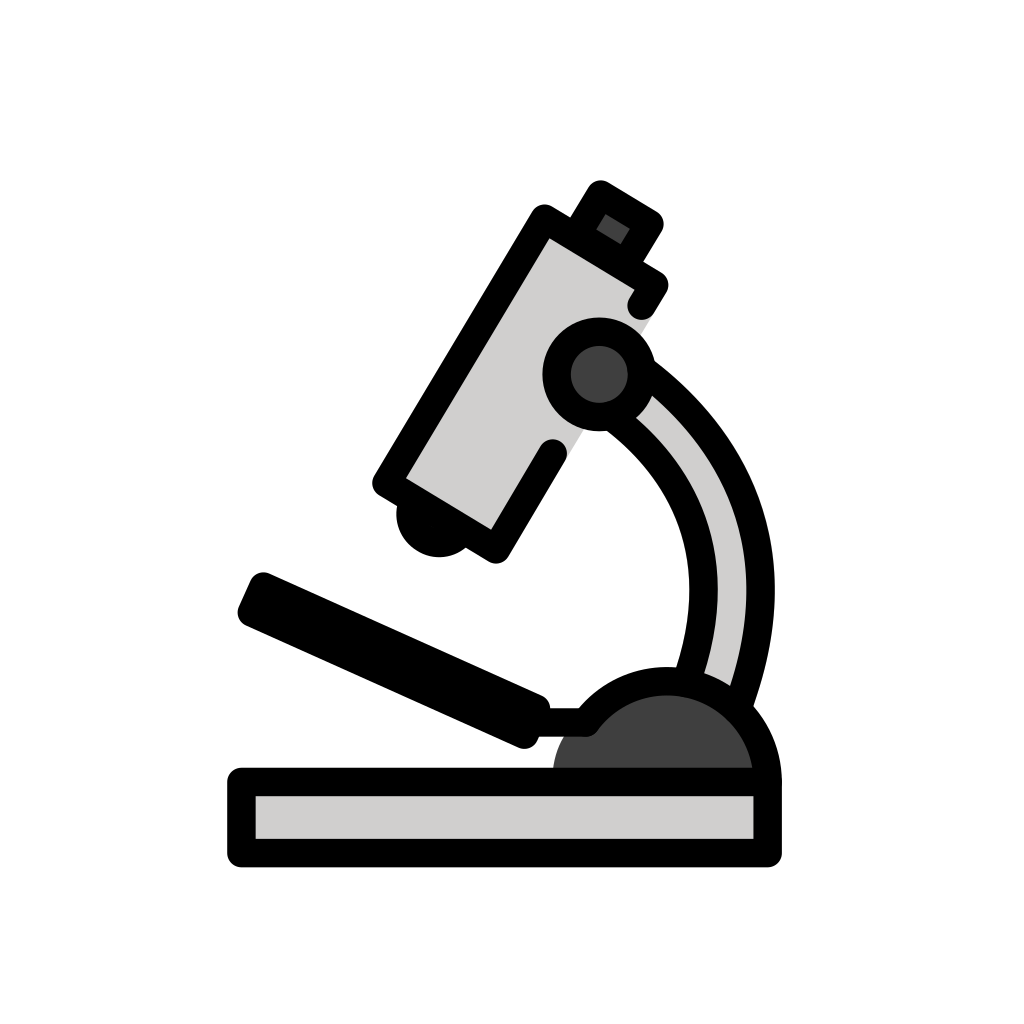
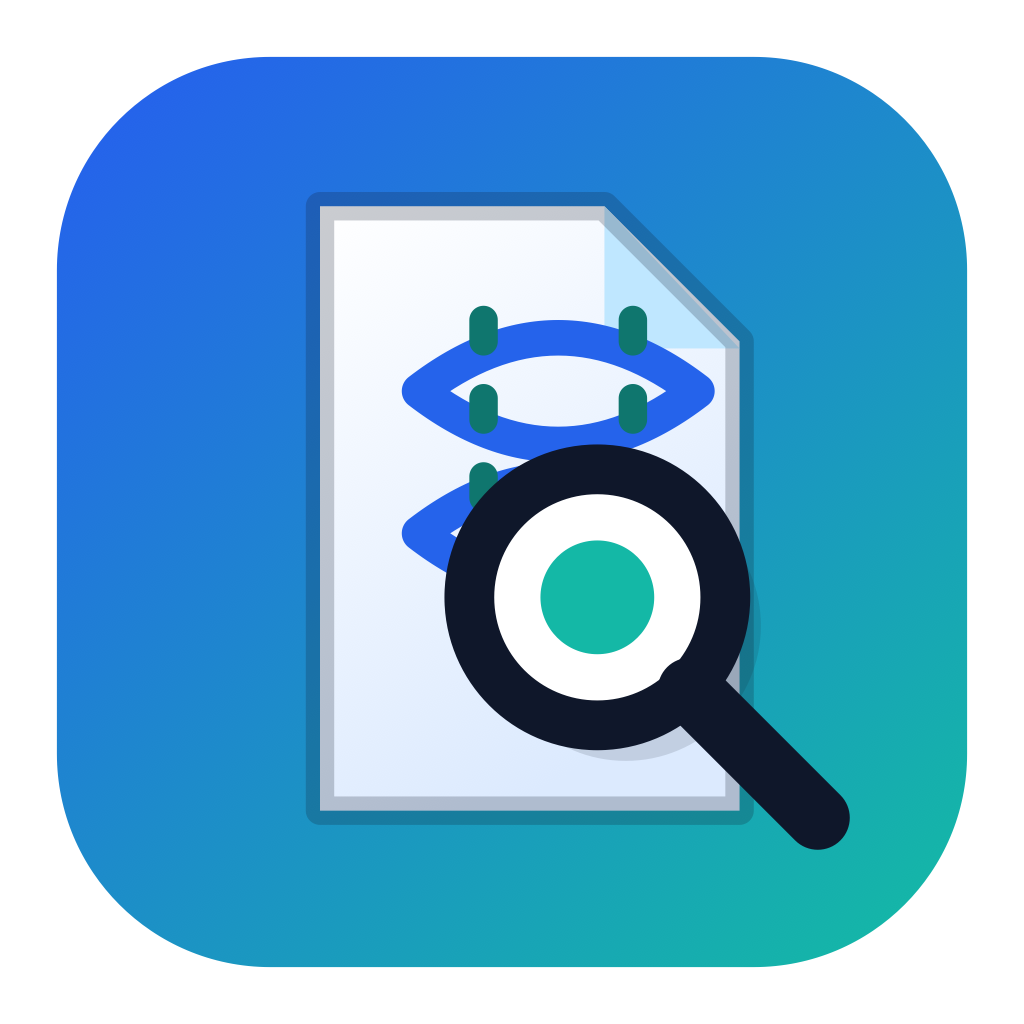
Standardize ResearchShop brand assets

diff --git a/app/scripts/generate-brand-assets.js b/app/scripts/generate-brand-assets.js
@@ -1,0 +1,205 @@
+const { execFileSync } = require('node:child_process')
+const { copyFileSync, mkdirSync, mkdtempSync, readFileSync, rmSync, writeFileSync } = require('node:fs')
+const { basename, join, resolve } = require('node:path')
+
+const repoRoot = resolve(__dirname, '../..')
+const resourcesDir = join(repoRoot, 'app/resources')
+const sourceSvg = join(resourcesDir, 'icon-source.svg')
+
+function run(command, args) {
+  execFileSync(command, args, { stdio: 'inherit' })
+}
+
+function renderSvg(input, size, output) {
+  const renderDir = mkdtempSync('/private/tmp/researchshop-render-')
+  try {
+    run('qlmanage', ['-t', '-s', String(size), '-o', renderDir, input])
+    copyFileSync(join(renderDir, `${basename(input)}.png`), output)
+  } finally {
+    rmSync(renderDir, { recursive: true, force: true })
+  }
+}
+
+function resizePng(input, width, height, output) {
+  run('sips', ['-z', String(height), String(width), input, '--out', output])
+}
+
+function renderIconPng(basePng, size, output) {
+  resizePng(basePng, size, size, output)
+}
+
+function generateDmgBackgrounds(workDir) {
+  const swiftPath = join(workDir, 'generate-dmg-background.swift')
+  const rawBackground = join(workDir, 'dmg-background-raw.png')
+  const rawBackground2x = join(workDir, '[email redacted]')
+  writeFileSync(swiftPath, `
+import AppKit
+
+let resourcesDir = CommandLine.arguments[1]
+let outputPath = CommandLine.arguments[2]
+let outputPath2x = CommandLine.arguments[3]
+let logicalWidth: CGFloat = 660
+let logicalHeight: CGFloat = 400
+
+func color(_ hex: Int, alpha: CGFloat = 1) -> NSColor {
+  let red = CGFloat((hex >> 16) & 0xff) / 255
+  let green = CGFloat((hex >> 8) & 0xff) / 255
+  let blue = CGFloat(hex & 0xff) / 255
+  return NSColor(calibratedRed: red, green: green, blue: blue, alpha: alpha)
+}
+
+func drawBackground(scale: CGFloat, output: String) throws {
+  let size = NSSize(width: logicalWidth * scale, height: logicalHeight * scale)
+  let image = NSImage(size: size)
+  image.lockFocus()
+  NSGraphicsContext.current?.imageInterpolation = .high
+
+  func rect(_ x: CGFloat, _ top: CGFloat, _ width: CGFloat, _ height: CGFloat) -> NSRect {
+    NSRect(x: x * scale, y: (logicalHeight - top - height) * scale, width: width * scale, height: height * scale)
+  }
+
+  func point(_ x: CGFloat, _ top: CGFloat) -> NSPoint {
+    NSPoint(x: x * scale, y: (logicalHeight - top) * scale)
+  }
+
+  func rounded(_ x: CGFloat, _ top: CGFloat, _ width: CGFloat, _ height: CGFloat, _ radius: CGFloat, fill: NSColor, stroke: NSColor? = nil) {
+    let path = NSBezierPath(roundedRect: rect(x, top, width, height), xRadius: radius * scale, yRadius: radius * scale)
+    fill.setFill()
+    path.fill()
+    if let stroke = stroke {
+      stroke.setStroke()
+      path.lineWidth = scale
+      path.stroke()
+    }
+  }
+
+  func text(_ value: String, _ x: CGFloat, _ top: CGFloat, _ width: CGFloat, _ height: CGFloat, size fontSize: CGFloat, weight: NSFont.Weight, fill: NSColor) {
+    let attributes: [NSAttributedString.Key: Any] = [
+      .font: NSFont.systemFont(ofSize: fontSize * scale, weight: weight),
+      .foregroundColor: fill
+    ]
+    NSString(string: value).draw(in: rect(x, top, width, height), withAttributes: attributes)
+  }
+
+  color(0xF8FAFC).setFill()
+  NSRect(origin: .zero, size: size).fill()
+  rounded(54, 42, 552, 316, 28, fill: .white, stroke: color(0xE2E8F0))
+  rounded(88, 136, 124, 124, 32, fill: color(0xDBEAFE))
+  rounded(448, 136, 124, 124, 32, fill: color(0xF1F5F9), stroke: color(0xCBD5E1))
+
+  if let icon = NSImage(contentsOfFile: resourcesDir + "/icon.png") {
+    icon.draw(in: rect(105, 153, 90, 90), from: .zero, operation: .sourceOver, fraction: 1)
+  }
+
+  let arrow = NSBezierPath()
+  arrow.move(to: point(250, 200))
+  arrow.line(to: point(407, 200))
+  color(0x2563EB).setStroke()
+  arrow.lineWidth = 4 * scale
+  arrow.lineCapStyle = .round
+  arrow.stroke()
+
+  let head = NSBezierPath()
+  head.move(to: point(407, 200))
+  head.line(to: point(383, 184))
+  head.line(to: point(383, 216))
+  head.close()
+  color(0x2563EB).setFill()
+  head.fill()
+
+  text("ResearchShop", 106, 282, 120, 24, size: 13, weight: .semibold, fill: color(0x64748B))
+  text("Applications", 464, 282, 120, 24, size: 13, weight: .semibold, fill: color(0x64748B))
+  text("Drag ResearchShop to Applications", 204, 304, 340, 28, size: 14, weight: .semibold, fill: color(0x475569))
+
+  image.unlockFocus()
+
+  guard
+    let tiff = image.tiffRepresentation,
+    let bitmap = NSBitmapImageRep(data: tiff),
+    let png = bitmap.representation(using: .png, properties: [:])
+  else {
+    throw NSError(domain: "ResearchShopBrandAssets", code: 1, userInfo: [NSLocalizedDescriptionKey: "Could not encode DMG background PNG"])
+  }
+  try png.write(to: URL(fileURLWithPath: output))
+}
+
+try drawBackground(scale: 1, output: outputPath)
+try drawBackground(scale: 2, output: outputPath2x)
+`)
+  run('swift', [swiftPath, resourcesDir, rawBackground, rawBackground2x])
+  resizePng(rawBackground, 660, 400, join(resourcesDir, 'dmg-background.png'))
+  resizePng(rawBackground2x, 1320, 800, join(resourcesDir, '[email redacted]'))
+}
+
+function writeIco(pngPaths, output) {
+  const images = pngPaths.map((path) => {
+    const match = path.match(/-(\d+)\.png$/)
+    if (!match) throw new Error(`Cannot infer ICO size from ${path}`)
+    return { size: Number(match[1]), data: readFileSync(path) }
+  })
+
+  const header = Buffer.alloc(6)
+  header.writeUInt16LE(0, 0)
+  header.writeUInt16LE(1, 2)
+  header.writeUInt16LE(images.length, 4)
+
+  let offset = 6 + images.length * 16
+  const entries = images.map(({ size, data }) => {
+    const entry = Buffer.alloc(16)
+    entry.writeUInt8(size === 256 ? 0 : size, 0)
+    entry.writeUInt8(size === 256 ? 0 : size, 1)
+    entry.writeUInt8(0, 2)
+    entry.writeUInt8(0, 3)
+    entry.writeUInt16LE(1, 4)
+    entry.writeUInt16LE(32, 6)
+    entry.writeUInt32LE(data.length, 8)
+    entry.writeUInt32LE(offset, 12)
+    offset += data.length
+    return entry
+  })
+
+  writeFileSync(output, Buffer.concat([header, ...entries, ...images.map(({ data }) => data)]))
+}
+
+const tmp = mkdtempSync('/private/tmp/researchshop-brand-')
+
+try {
+  const baseIconPng = join(tmp, 'icon-base.png')
+  renderSvg(sourceSvg, 1024, baseIconPng)
+
+  const iconset = join(tmp, 'ResearchShop.iconset')
+  mkdirSync(iconset, { recursive: true })
+
+  const iconsetSizes = [
+    ['icon_16x16.png', 16],
+    ['[email redacted]', 32],
+    ['icon_32x32.png', 32],
+    ['[email redacted]', 64],
+    ['icon_128x128.png', 128],
+    ['[email redacted]', 256],
+    ['icon_256x256.png', 256],
+    ['[email redacted]', 512],
+    ['icon_512x512.png', 512],
+    ['[email redacted]', 1024],
+  ]
+  for (const [name, size] of iconsetSizes) {
+    renderIconPng(baseIconPng, size, join(iconset, name))
+  }
+  run('iconutil', ['-c', 'icns', iconset, '-o', join(resourcesDir, 'icon.icns')])
+
+  renderIconPng(baseIconPng, 1024, join(resourcesDir, 'icon.png'))
+
+  const icoSizes = [16, 24, 32, 48, 64, 128, 256]
+  const icoPngs = icoSizes.map((size) => {
+    const output = join(tmp, `ico-${size}.png`)
+    renderIconPng(baseIconPng, size, output)
+    return output
+  })
+  writeIco(icoPngs, join(resourcesDir, 'icon.ico'))
+
+  generateDmgBackgrounds(tmp)
+
+  console.log('Generated ResearchShop brand assets from app/resources/icon-source.svg')
+} finally {
+  rmSync(tmp, { recursive: true, force: true })
+}

diff --git a/app/src/renderer/components/BrandMark.tsx b/app/src/renderer/components/BrandMark.tsx
@@ -1,0 +1,20 @@
+import researchShopMark from '../../../resources/icon-source.svg'
+
+interface BrandMarkProps {
+  className?: string
+  alt?: string
+}
+
+export default function BrandMark({
+  className = 'h-6 w-6',
+  alt = 'ResearchShop logo',
+}: BrandMarkProps) {
+  return (
+    <img
+      src={researchShopMark}
+      alt={alt}
+      className={className}
+      draggable={false}
+    />
+  )
+}

diff --git a/app/src/renderer/components/Sidebar.tsx b/app/src/renderer/components/Sidebar.tsx
@@ -1,7 +1,8 @@
 import { NavLink, useNavigate } from 'react-router-dom'
-import { Search, Clock, Settings, Plus, FlaskConical, Sparkles, Download, RefreshCw, CheckCircle2, Activity } from 'lucide-react'
+import { Search, Clock, Settings, Plus, Sparkles, Download, RefreshCw, CheckCircle2, Activity } from 'lucide-react'
 import { useEffect, useState } from 'react'
 import { usePipeline } from '../hooks/usePipeline'
+import BrandMark from './BrandMark'
 
 const mainNavItems = [
   { to: '/query', icon: Search, label: 'Query Builder' },
@@ -41,10 +42,10 @@ export default function Sidebar() {
     <div className="w-56 bg-white border-r border-slate-200 flex flex-col">
       <div className="p-5 border-b border-slate-200">
         <div className="flex items-center gap-2">
-          <FlaskConical className="w-5 h-5 text-brand-600" />
+          <BrandMark className="h-7 w-7 rounded-lg shadow-sm" />
           <h1 className="text-xl font-bold text-brand-700">ResearchShop</h1>
         </div>
-        <p className="text-xs text-slate-400 mt-0.5 ml-7">Desktop</p>
+        <p className="text-xs text-slate-400 mt-0.5 ml-9">Desktop</p>
       </div>
 
       <div className="p-3 pb-0">

diff --git a/app/src/renderer/App.tsx b/app/src/renderer/App.tsx
@@ -9,6 +9,7 @@ import Pipeline from './pages/Pipeline'
 import Results from './pages/Results'
 import History from './pages/History'
 import { PipelineProvider } from './hooks/usePipeline'
+import BrandMark from './components/BrandMark'
 
 declare global {
   interface Window {
@@ -184,7 +185,7 @@ function SetupScreen({
         <div className="pointer-events-auto flex flex-col items-center">
           {/* Logo */}
           <div className="w-24 h-24 mb-8 rounded-3xl bg-white/[0.04] border border-white/[0.06] flex items-center justify-center backdrop-blur-sm">
-            <span className="text-5xl">🔬</span>
+            <BrandMark className="h-20 w-20 rounded-2xl shadow-2xl shadow-black/20" />
           </div>
 
           {/* Title */}

diff --git a/README.md b/README.md
@@ -1,5 +1,5 @@
 <div align="center">
-  <img src="docs/assets/researchshop-mark.svg" alt="ResearchShop logo" width="96">
+  <img src="app/resources/icon-source.svg" alt="ResearchShop logo" width="96">
   <h1>ResearchShop Desktop</h1>
   <p><strong>AI-powered gene and variant extraction from PubMed literature.</strong></p>
 </div>